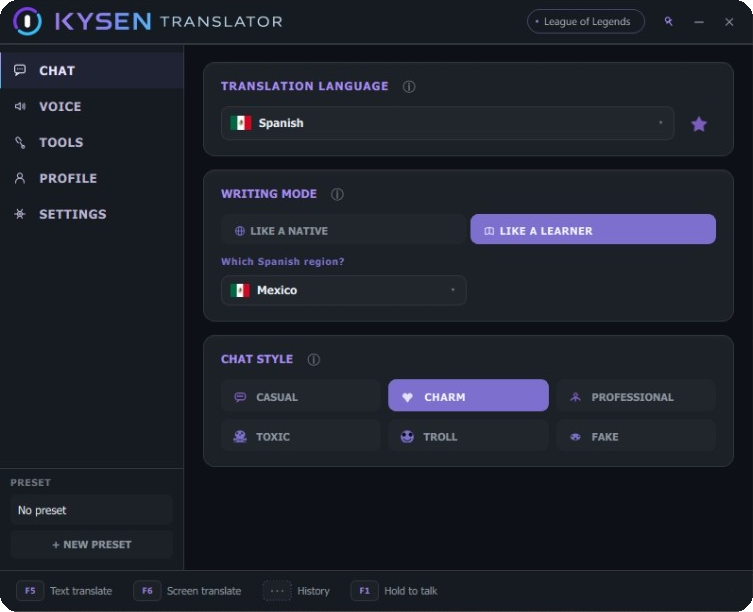
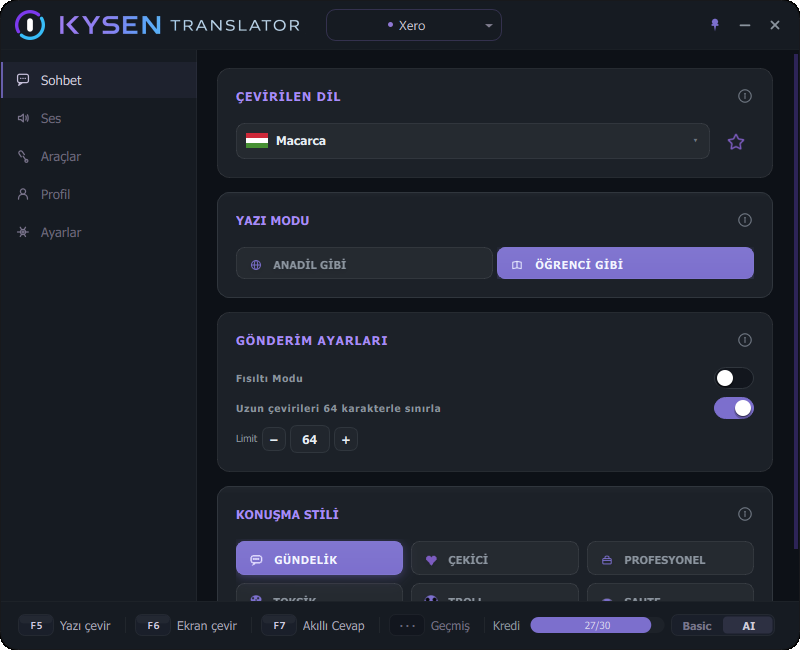
Align README with current plans, quick start, and Chat UI.

diff --git a/README.md b/README.md
@@ -15,12 +15,12 @@
 <p align="center"><b>Speak without borders.</b></p>
 
 <p align="center">
-  <img src="docs/media/ui_chat.png?v=20260812d" alt="Kysen Translator, Chat tab" width="720" />
+  <img src="docs/media/ui_chat.png?v=20260906a" alt="Kysen Translator, Chat tab" width="720" />
 </p>
 
 ---
 
-Kysen is a Windows app for gamers playing across different languages. It translates your chat, reads the screen, and handles two-way voice chat right inside your game.
+Kysen is a Windows app for players communicating across different languages. It translates your messages, reads on-screen chat, and helps you communicate by voice without leaving the game.
 
 <p align="center">
   <a href="#features">Features</a> •
@@ -40,18 +40,21 @@ Kysen is a Windows app for gamers playing across different languages. It transla
 ## Why use it
 
 - Hotkeys write, translate, and send your message without leaving the game.
-- On-screen text gets captured and translated live, so you always know what's going on around you.
-- Speak in your language and hear theirs live, so you sound like a real teammate instead of a robot.
+- On-screen text gets captured and translated, so you always know what's going on around you.
+- Speak in your language and communicate by voice across languages.
 - Multiple chat styles keep replies sounding like a real person typed them, not raw machine output.
-- Sign in and it's ready, no setup hassle.
+- Text translation is ready in minutes — choose your game, language, and start chatting.
 
 ---
 
 ## Quick start
 
-1. Download from [kysenai.com](https://kysenai.com)
+1. Download Kysen from [kysenai.com](https://kysenai.com)
 2. Install and sign in
-3. Press **F5** and start using it
+3. Choose your game and target language
+4. Type in your language and press **F5**
+
+Kysen translates the message and sends it to the game chat.
 
 **Hotkeys** (customizable):
 
@@ -69,7 +72,7 @@ Kysen is a Windows app for gamers playing across different languages. It transla
 Click any feature to expand.
 
 <details>
-<summary><b>Text chat translation</b> · Write in your language, send in theirs, instantly</summary>
+<summary><b>Text chat translation</b> · Write in your language, send in theirs</summary>
 
 <br>
 
@@ -82,7 +85,7 @@ Type normally. Kysen rewrites the message into the other player's language and s
 
 <br>
 
-Select a region of the screen. Kysen reads the text there and shows you a live translation, useful when the other side is typing in a language you don't know.
+Select a region of the screen. Kysen reads the text there and shows you a translation, useful when the other side is typing in a language you don't know.
 
 </details>
 
@@ -91,7 +94,7 @@ Select a region of the screen. Kysen reads the text there and shows you a live t
 
 <br>
 
-Built for voice lobbies (Valorant, CS, Discord parties, and similar). Kysen listens to the other side and shows you a live translation so you know what they’re saying, and when you talk it translates your mic in real time so teammates hear you in their language and still sound like you instead of a robot.
+Built for voice lobbies (Valorant, CS, Discord parties, and similar). Kysen listens to the other side and translates what they say into your language, and when you talk it translates your mic so teammates hear you in their language and still sound like you instead of a robot.
 
 </details>
 
@@ -126,7 +129,7 @@ Pick the vibe that fits who you want to sound like in chat.
 </details>
 
 <details>
-<summary><b>Latin letters / Real alphabet</b> · For games that can't show every script</summary>
+<summary><b>Latin / Original script</b> · Use transliteration when the original writing system isn't practical in-game</summary>
 
 <br>
 
@@ -155,7 +158,7 @@ When chat is moving fast, Smart Reply suggests answers that fit the conversation
 </details>
 
 <details>
-<summary><b>Real-time flow</b> · No alt-tab, no interruptions, translations keep up with the game</summary>
+<summary><b>In-game flow</b> · Translate and send messages without alt-tabbing or copy-pasting</summary>
 
 <br>
 
@@ -163,22 +166,15 @@ Hotkeys and overlays keep you in the match. Translate, send, and keep playing wi
 
 </details>
 
-<details>
-<summary><b>Cache</b> · Skips reprocessing messages it has already translated</summary>
-
-<br>
-
-Repeated lines and common chat phrases resolve faster because Kysen remembers what it already handled.
-
-</details>
-
 ---
 
 ## Plans
 
-Every feature is included in your subscription. No extra purchases, no separate setup per feature.
+Start free and upgrade only when you need more.
 
-Manage your account and plans on the [Website](https://kysenai.com).
+Basic translation stays free. Paid plans unlock voice translation, higher AI limits, and additional voice features.
+
+Manage your plan on the [Website](https://kysenai.com).
 
 ---
 
